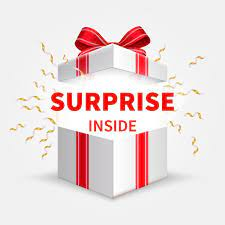
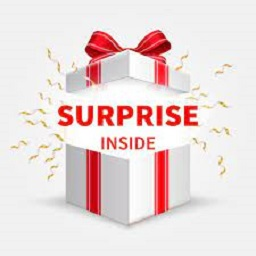
added internship image

diff --git a/index.html b/index.html
@@ -293,7 +293,7 @@
                 <span>Grab amazing internship oppurtunities and more...</span>
               </div>
             </div>
-            <img data-src="img/prizes/gift.png" class="img-fluid lazyload gift" alt="Gift" />
+            <img src="img/prizes/internship-img.jpg" class="img-fluid lazyload gift" alt="Gift" />
           </div>
           <div class="portfolio-caption">
             <h4>Internships</h4>
@@ -692,6 +692,10 @@
             <tr>
               <td>Areeba Mohiuddin</td>
               <td><a href="tel:9177298247">9177298247</a></td>
+            </tr>
+            <tr>
+              <td>Fatima Mehvash</td>
+              <td><a href="tel:9701201547">9701201547</a></td>
             </tr>
             <tr>
               <td colspan="2">
